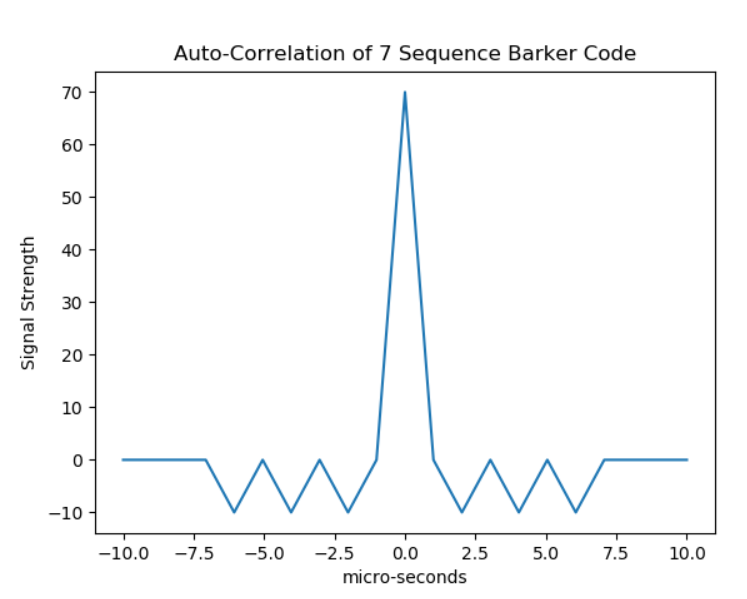
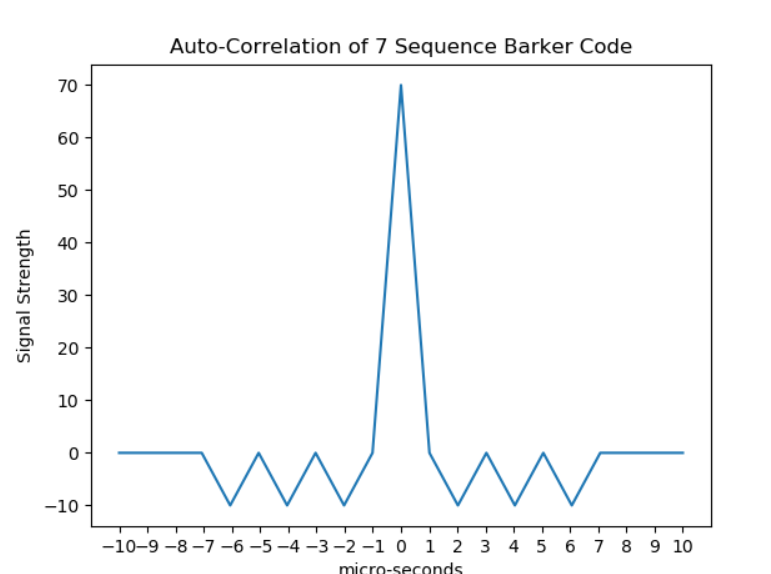
correlation added

Changed region(s): [[0.0, 0.0592, 0.9853, 1.0]]

diff --git a/BarkerCode/BarkerCode.py b/BarkerCode/BarkerCode.py
@@ -10,6 +10,8 @@ dir = os.path.dirname(__file__)
 filename = os.path.join(dir, setPath)
 
 dataComplex = numpy.fromfile(filename, dtype='int16')
+dataComplex = 1.0*dataComplex[::2]+1.0j*dataComplex[1::2]
+print(dataComplex)
 dataSize = numpy.size(dataComplex)
 
 class Barker(object):
@@ -26,20 +28,21 @@ class Barker(object):
     self.title = title
     self.sequenceRepeated = numpy.repeat(sequence,10)
 
-
 Barker7 = Barker(numpy.array([1, 1, 1, -1, -1, 1, -1,0,0,0]), numpy.linspace(0,10,num=100), 10, '7 Sequence Barker Code')
 Barker13 = Barker(numpy.array([1,1,1,1,1,-1,-1,1,1,-1,1,-1,1,0,0,0,0,0,0,0]), numpy.linspace(0,20,num=200), 20, '13 Sequence Barker Code')
 
 plt.plot(Barker7.time,Barker7.sequenceRepeated)
 plt.title(Barker7.title)
 plt.xlabel('micro-seconds')
-plt.ylabel('Signal Strength')
+plt.ylabel('Amplitude')
+plt.xticks(numpy.linspace(0,10,11))
 plt.show()
 
 plt.plot(Barker13.time,Barker13.sequenceRepeated)
 plt.title(Barker13.title)
 plt.xlabel('micro-seconds')
-plt.ylabel('Signal Strength')
+plt.ylabel('Amplitude')
+plt.xticks(numpy.linspace(0,20,21))
 plt.show()
 
 def BarkerAutoCorrelation(signal):
@@ -52,5 +55,31 @@ def BarkerAutoCorrelation(signal):
   plt.show()
   return autoCorr
 
+def PlotSignalStrength(data):
+  dataStrength = numpy.square(numpy.abs(data))
+  plt.title('Signal Strength of Returning Objects w/o Correlation')
+  plt.xlabel('Range: x150m')
+  plt.ylabel('Signal Strength')
+  plt.xlim([0,63])
+  plt.xticks(numpy.linspace(0,63,22))
+  plt.plot(dataStrength)
+  plt.show()
+  return
+
+def SignalStrengthBarker(signal, data):
+  dataStrength = numpy.square(numpy.abs(data))
+  autoCorr = numpy.correlate(data, Barker13.sequence, mode='same')
+  plt.plot(abs(autoCorr)**2)
+  plt.title('Signal Strength of Returning Objects w/ Barker13 Correlation')
+  plt.xlabel('Range')
+  plt.ylabel('Signal Strength')
+  plt.show()
+  return
+
+
 BarkerAutoCorrelation(Barker7)
 BarkerAutoCorrelation(Barker13)
+
+PlotSignalStrength(dataComplex)
+SignalStrengthBarker(Barker13, dataComplex)
+
